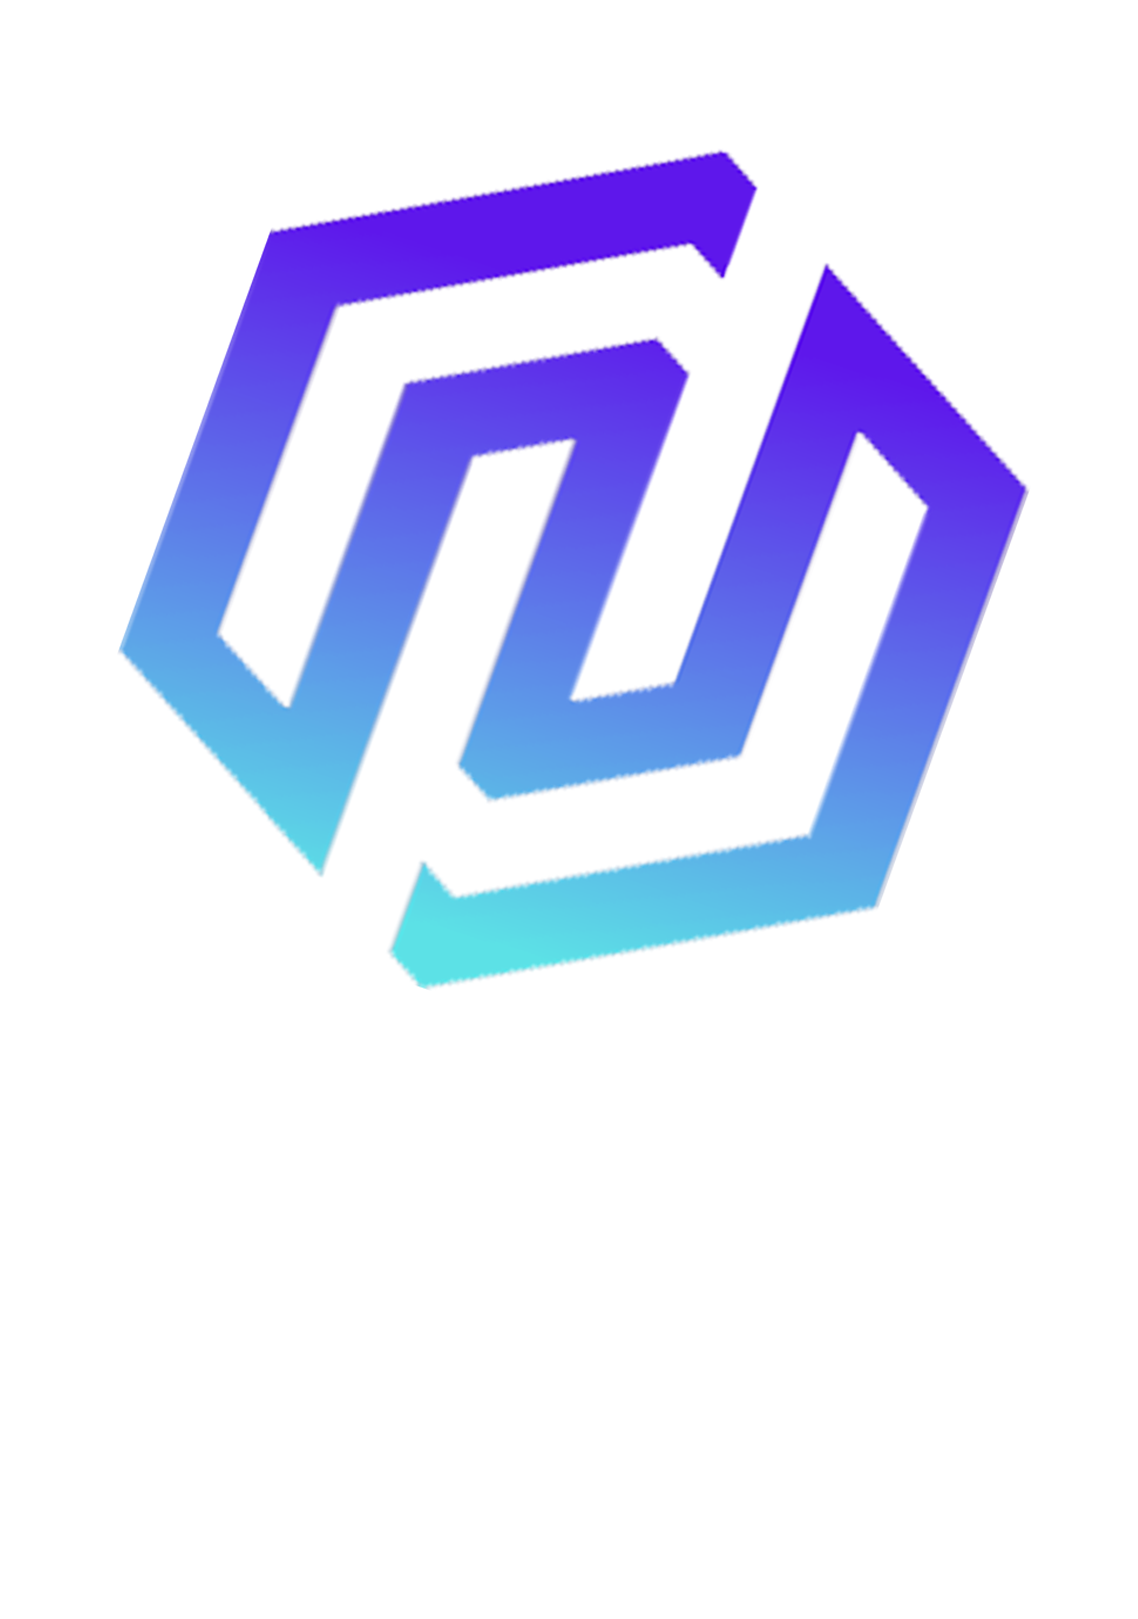
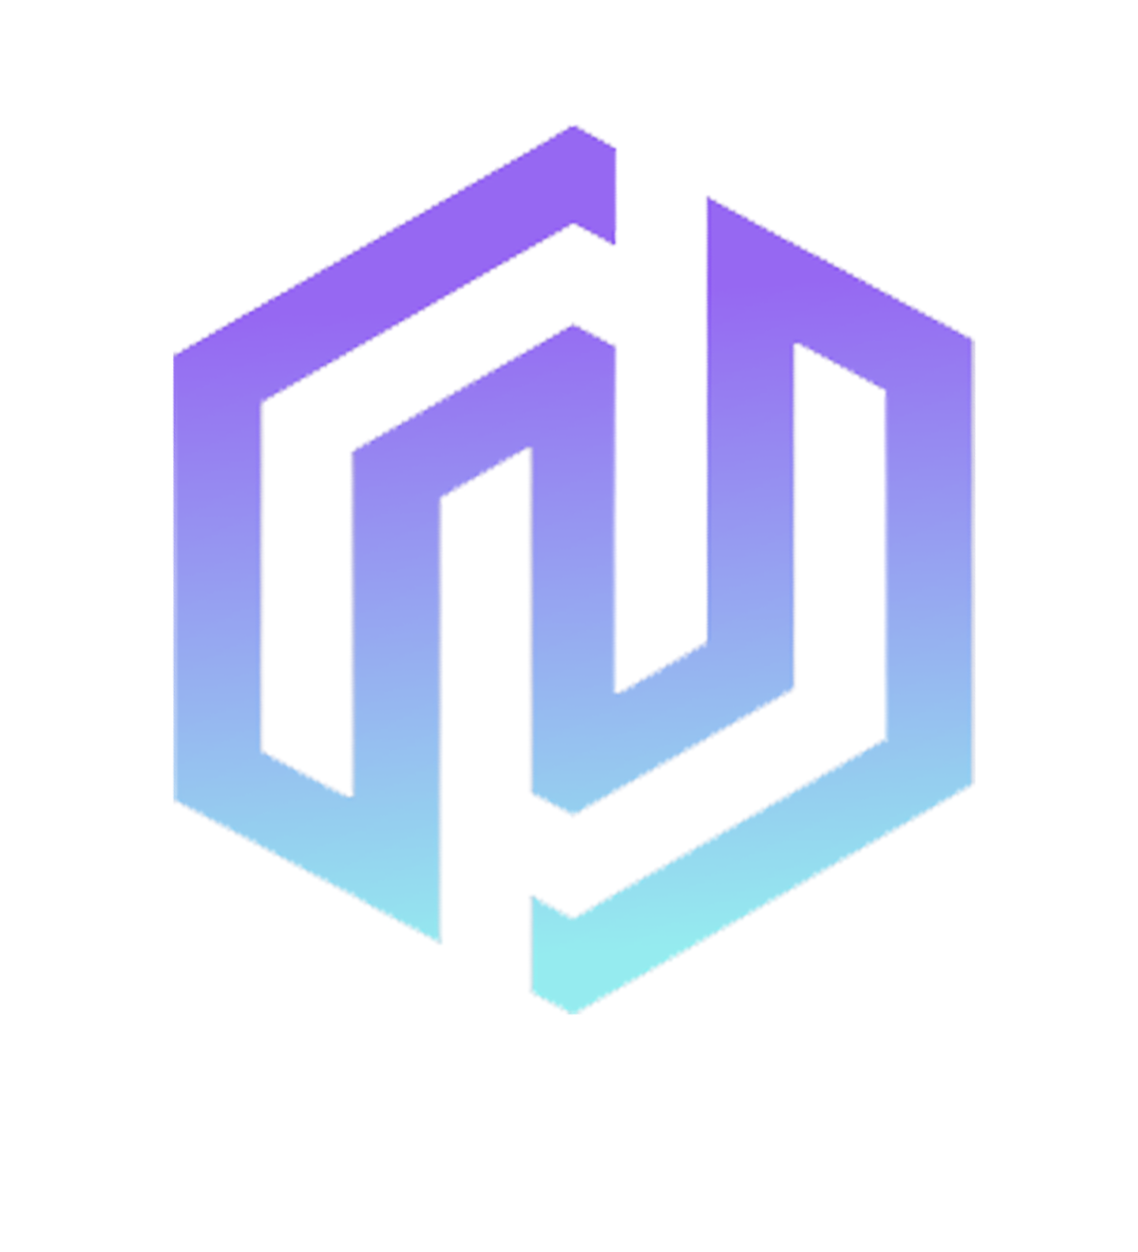
Add files via upload

diff --git a/index.html b/index.html
@@ -54,7 +54,7 @@
                     <li><a href="#Partners">Partners</a></li>
                 </ul>
                 <div class="actions">
-                    <a href=""> <button class="btn btn-main">Let's Talk</button> </a>
+                    <a href="https://t.me/crypticweb3" target="_blank"><button class="btn btn-main">Let's Talk</button></a>
 
                 </div>
             </div>
@@ -97,8 +97,8 @@
                 Cryptic is the social media<br> marketing agency that offers a <br> one-stop-shop solution
             </h2>
             <div class="desc text-center mb-5" data-aos="fade-up" data-aos-duration="2000" style="max-width:1000px;margin:auto;">
-                A team of experienced developers and marketeers will be consulting your<br>
-                project to guarantee results. We have been part of multiple succesfull<br>
+                A team of experienced developers and marketeers will be consulting your
+                project to guarantee results. We have been part of multiple succesfull
                 projects and know what is needed for a project to be unique and succesfull. </div>
         </div>
     </section>
@@ -106,6 +106,9 @@
 
     <section class="section section-partners" id="support">
         <div class="container">
+            <div class="bubble">
+                <img class="img" src="./assets/images/banner/Picture.png">
+             </div>
             <h2 class="section-title mb-5" data-aos="fade-up" data-aos-duration="1500">
                 Partners & Supporters
             </h2>
@@ -166,6 +169,9 @@
 
     <section class="section section-wby" id="audience">
         <div class="container">
+            <div class="bubble2">
+                <img class="img" src="./assets/images/banner/Picture1.png">
+             </div>
             <div class="wby-box">
 
                 <div class="content" data-aos="fade-right" data-aos-duration="1500">
@@ -224,16 +230,43 @@
     </section>
     
 
-    <section class="section section-products" id="products">
+    <section class="section section-partners" id="partners">
         <div class="container">
-            <h2 class="section-title" data-aos="fade-up" data-aos-duration="1500">
-                Products
+            <h2 class="section-title mb-5" data-aos="fade-up" data-aos-duration="1500">
+                Partners & Supporters
             </h2>
-            <div class="desc text-center mb-5" data-aos="fade-up" data-aos-duration="2000" style="max-width:1000px;margin:auto;">
-                <p class="mb-1">At the foundation of CBCInfinity are high-tech products that will energize the ecosphere.</p>
-                <p>These products are built as a community-led mechanism and controlled by industry experts.</p>
+
+            <div class="list-partners" data-aos="fade-up" data-aos-duration="2000">
+                <div class="item">
+                        <img src="assets/images/multi-chain/bloomberg1.png" alt="">
+                    </a>
+                </div>
+                <div class="item">
+                        <img src="assets/images/multi-chain/cyberscope.png" alt="">
+                    </a>
+                </div>
+                <div class="item">
+                        <img src="assets/images/multi-chain/cg.webp" alt="">
+                    </a>
+                </div>
+                <div class="item">
+                        <img src="assets/images/multi-chain/cmc.png" alt="">
+                    </a>
+                </div>
+                
+                <div class="item">
+                        <img src="assets/images/multi-chain/dxsale.png" alt="">
+                    </a>
+                </div>
+                <div class="item">
+                        <img src="assets/uploads/partners/streetInsider.com.svg" alt="">
+                    </a>
+                </div>
+                <div class="item">
+                        <img src="assets/uploads/partners/yahoo.svg" alt="">
+                    </a>
+                </div>
             </div>
-           
         </div>
     </section>
   
@@ -241,7 +274,7 @@
         <div class="container">
             <div class="box-footer">
                 <div class="box-info">
-                    <img src="assets/images/footer/logo.svg" alt="">
+                    <img src="assets/images/header/logo.png" alt="">
                     <div class="info desc">Cryptic Social Media Marketing Agency (SMMA) & Marketing Consulting for Businesses & Project ont the Blockchain</div>
                 </div>
                 <div class="box-menus">
@@ -250,15 +283,15 @@
                             Services
                         </div>
                         <a href="#">Pinsale Trending</a>
-                        <a href="#">Coinmarketcap</a>
-                        <a href="#">Coingecko</a>
+                        <a href="#">CMC Listing</a>
+                        <a href="#">CG Listing</a>
                         <a href="#">Marketing</a>
                     </div>
                     <div class="item">
                         <div class="title">
                             About
                         </div>
-                        <a href="#team">Team</a>
+                        <a href="#about">About Cryptic</a>
                         <a href="#partners">Partners</a>
                         <a href="#">FAQ</a>
                     </div>
@@ -267,24 +300,24 @@
                     <div class="title">Join the community</div>
                     <div class="desc mb-2 f14">Join and follow us for more information about Cryptic Social Media Marketing Agency (SMMA)</div>
                     <div class="list-social">
-                        <a href="#" target="_blank">
+                        <a href="https://twitter.com/crypticsmma" target="_blank">
 							<span class="icon">
-								<img src="assets/images/footer/twitter.svg" alt="">
+								<img src="assets/images/social-media/twitter.png" alt="">
+							</span>
+						</a>
+                        <a href="https://t.me/crypticweb3" target="_blank">
+							<span class="icon">
+								<img src="assets/images/social-media/telegram.png" alt="">
+							</span>
+						</a>
+                        <a href="https://instagram.com/crypticweb3" target="_blank">
+							<span class="icon">
+								<img src="assets/images/social-media/Instagram.png" alt="">
 							</span>
 						</a>
                         <a href="#" target="_blank">
 							<span class="icon">
-								<img src="assets/images/footer/telegram.svg" alt="">
-							</span>
-						</a>
-                        <a href="#" target="_blank">
-							<span class="icon">
-								<img src="assets/images/footer/telegram.svg" alt="">
-							</span>
-						</a>
-                        <a href="#" target="_blank">
-							<span class="icon">
-								<img src="assets/images/footer/yt.svg" alt="">
+								<img src="assets/images/social-media/YouTube.png" alt="">
 							</span>
 						</a>
                     </div>
@@ -361,30 +394,6 @@
             $(".hero-banner .bg").html(svg);
         }, 12000);
 
-         const addNetwork = () => {
-             if(window.ethereum){
-                 window.ethereum.request({
-         method: 'wallet_addEthereumChain',
-         params: [{
-             chainId: "0xb2d7",
-             chainName: "CarbonChain",
-             rpcUrls: [
-                 'https://testnet-rpc.carbonchains.xyz',
-             ],
-             iconUrls: [
-                 'https://carbonchains.xyz/assets/images/fav.png'
-             ],
-             nativeCurrency: {
-                 name: 'CBC',
-                 symbol: 'CBC',
-                 decimals: 18
-             }
-         }]
-     })
- }
- }
-
-         addNetwork();
 
     </script>
 

diff --git a/assets/css/style.css b/assets/css/style.css
@@ -9172,7 +9172,7 @@ html {
     font-family: 'Montserrat', sans-serif;
     font-size: 20px;
     overflow: hidden;
-    background-color: #020822;
+    background-color: #1f0451;
     overflow-x: hidden;
     -webkit-font-smoothing: antialiased;
     -webkit-text-size-adjust: 100%;
@@ -9288,19 +9288,51 @@ html {
     opacity: 1;
 }
 
+
+.bubble {
+    opacity: .7;
+    position: relative;
+    top: 0;
+    bottom: 0;
+    z-index: 0;
+}
+.bubble .img {
+    position: absolute;
+    opacity: .7;
+    right: 0px;
+    bottom: 0px;
+    width: 250px;
+    height: 250px;
+    z-index: -1;
+}
+
+.bubble2 {
+    opacity: .2;
+    position: relative;
+    top: 0;
+    bottom: 0;
+    z-index: 0;
+}
+.bubble2 .img {
+    position: absolute;
+    bottom: 0px;
+    right: 50;
+    width: 450px;
+    height: 450px;
+}
+
+
+
+
 .header {
     position: sticky;
     top: 0px;
-    background-color: #0F101D;
     width: 100%;
     padding: 0px 0px;
     z-index: 100;
-    background: #030B1C;
-    box-shadow: 0px 28px 95px -132px rgba(0, 60, 207, 0.1), -80px -101px 147px -68px rgba(255, 28, 137, 0.1), 0px 109px 175px -30px rgba(183, 0, 206, 0.1);
 }
 
 .header .header-top {
-    background: linear-gradient(70.91deg, #340862 0%, #0D2076 100%);
     padding: 7px 10px;
     display: flex;
     justify-content: center;
@@ -9400,12 +9432,12 @@ html {
 
 .hero-banner .bg {
     position: absolute;
-    opacity: .3;
+    opacity: .7;
     right: 0px;
     bottom: 0px;
-    top: 0px;
-    width: 1920px;
-    height: 670px;
+    top: -100px;
+    width: 1520px;
+    height: 600px;
     z-index: -1;
 }
 
@@ -9425,6 +9457,8 @@ html {
 
 .hero-banner .hero-img img {
     width: 100%;
+    height: 100%;
+    top: 0%;
 }
 
 .hero-banner .hero-text {
@@ -9494,7 +9528,7 @@ html {
     left: 0px;
     border-radius: 7px;
     z-index: -1;
-    background: #0F101D;
+    background: #1d0551;
     position: absolute;
 }
 
@@ -9893,7 +9927,7 @@ html {
 
 .section-partners .btn-more {
     font-size: 24px;
-    background: linear-gradient(70.91deg, #000428 0%, #004E92 100%);
+    background: linear-gradient(70.91deg, #1d0551 0%, #430140 100%);
     border-radius: 10px;
     color: #fff;
     border: 0px;
@@ -10018,7 +10052,7 @@ html {
     }
     .header .menus-box {
         position: fixed;
-        background-color: #020822;
+        background-color: #1d0551;
         z-index: 100;
         top: 0px;
         bottom: 0px;
